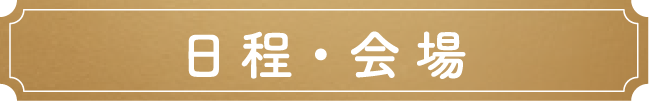
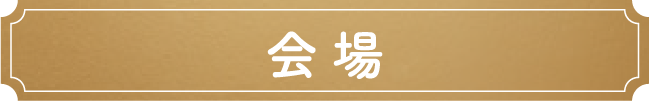
# 002:feature:画像差し替え

diff --git a/public/rcs_seijin/index.html b/public/rcs_seijin/index.html
@@ -243,9 +243,9 @@
 		<div class="move animate__animated">
 			<div class="titleWrap">
 				<picture>
-					<source src="./_assets/img/webp/title05.webp?1" type="image/webp">
-					<source src="./_assets/img/title05.png?1" type="image/png">
-					<img src="./_assets/img/title05.png?1" width="100%" height="auto" alt="日程・場所">
+					<source src="./_assets/img/webp/title05.webp?2" type="image/webp">
+					<source src="./_assets/img/title05.png?2" type="image/png">
+					<img src="./_assets/img/title05.png?2" width="100%" height="auto" alt="場所">
 				</picture>
 			</div>
 		</div>
@@ -254,7 +254,7 @@
 				<picture>
 					<source src="./_assets/img/webp/place.webp?2" type="image/webp">
 					<source src="./_assets/img/place.png?2" type="image/png">
-					<img src="./_assets/img/place.png?2" width="100%" height="auto" alt="日程・日時ロイヤルチェスター佐賀_2/21〜2/23">
+					<img src="./_assets/img/place.png?2" width="100%" height="auto" alt="ロイヤルチェスター佐賀内ティアラブティック佐賀">
 				</picture>
 			</div>
 		</div>
